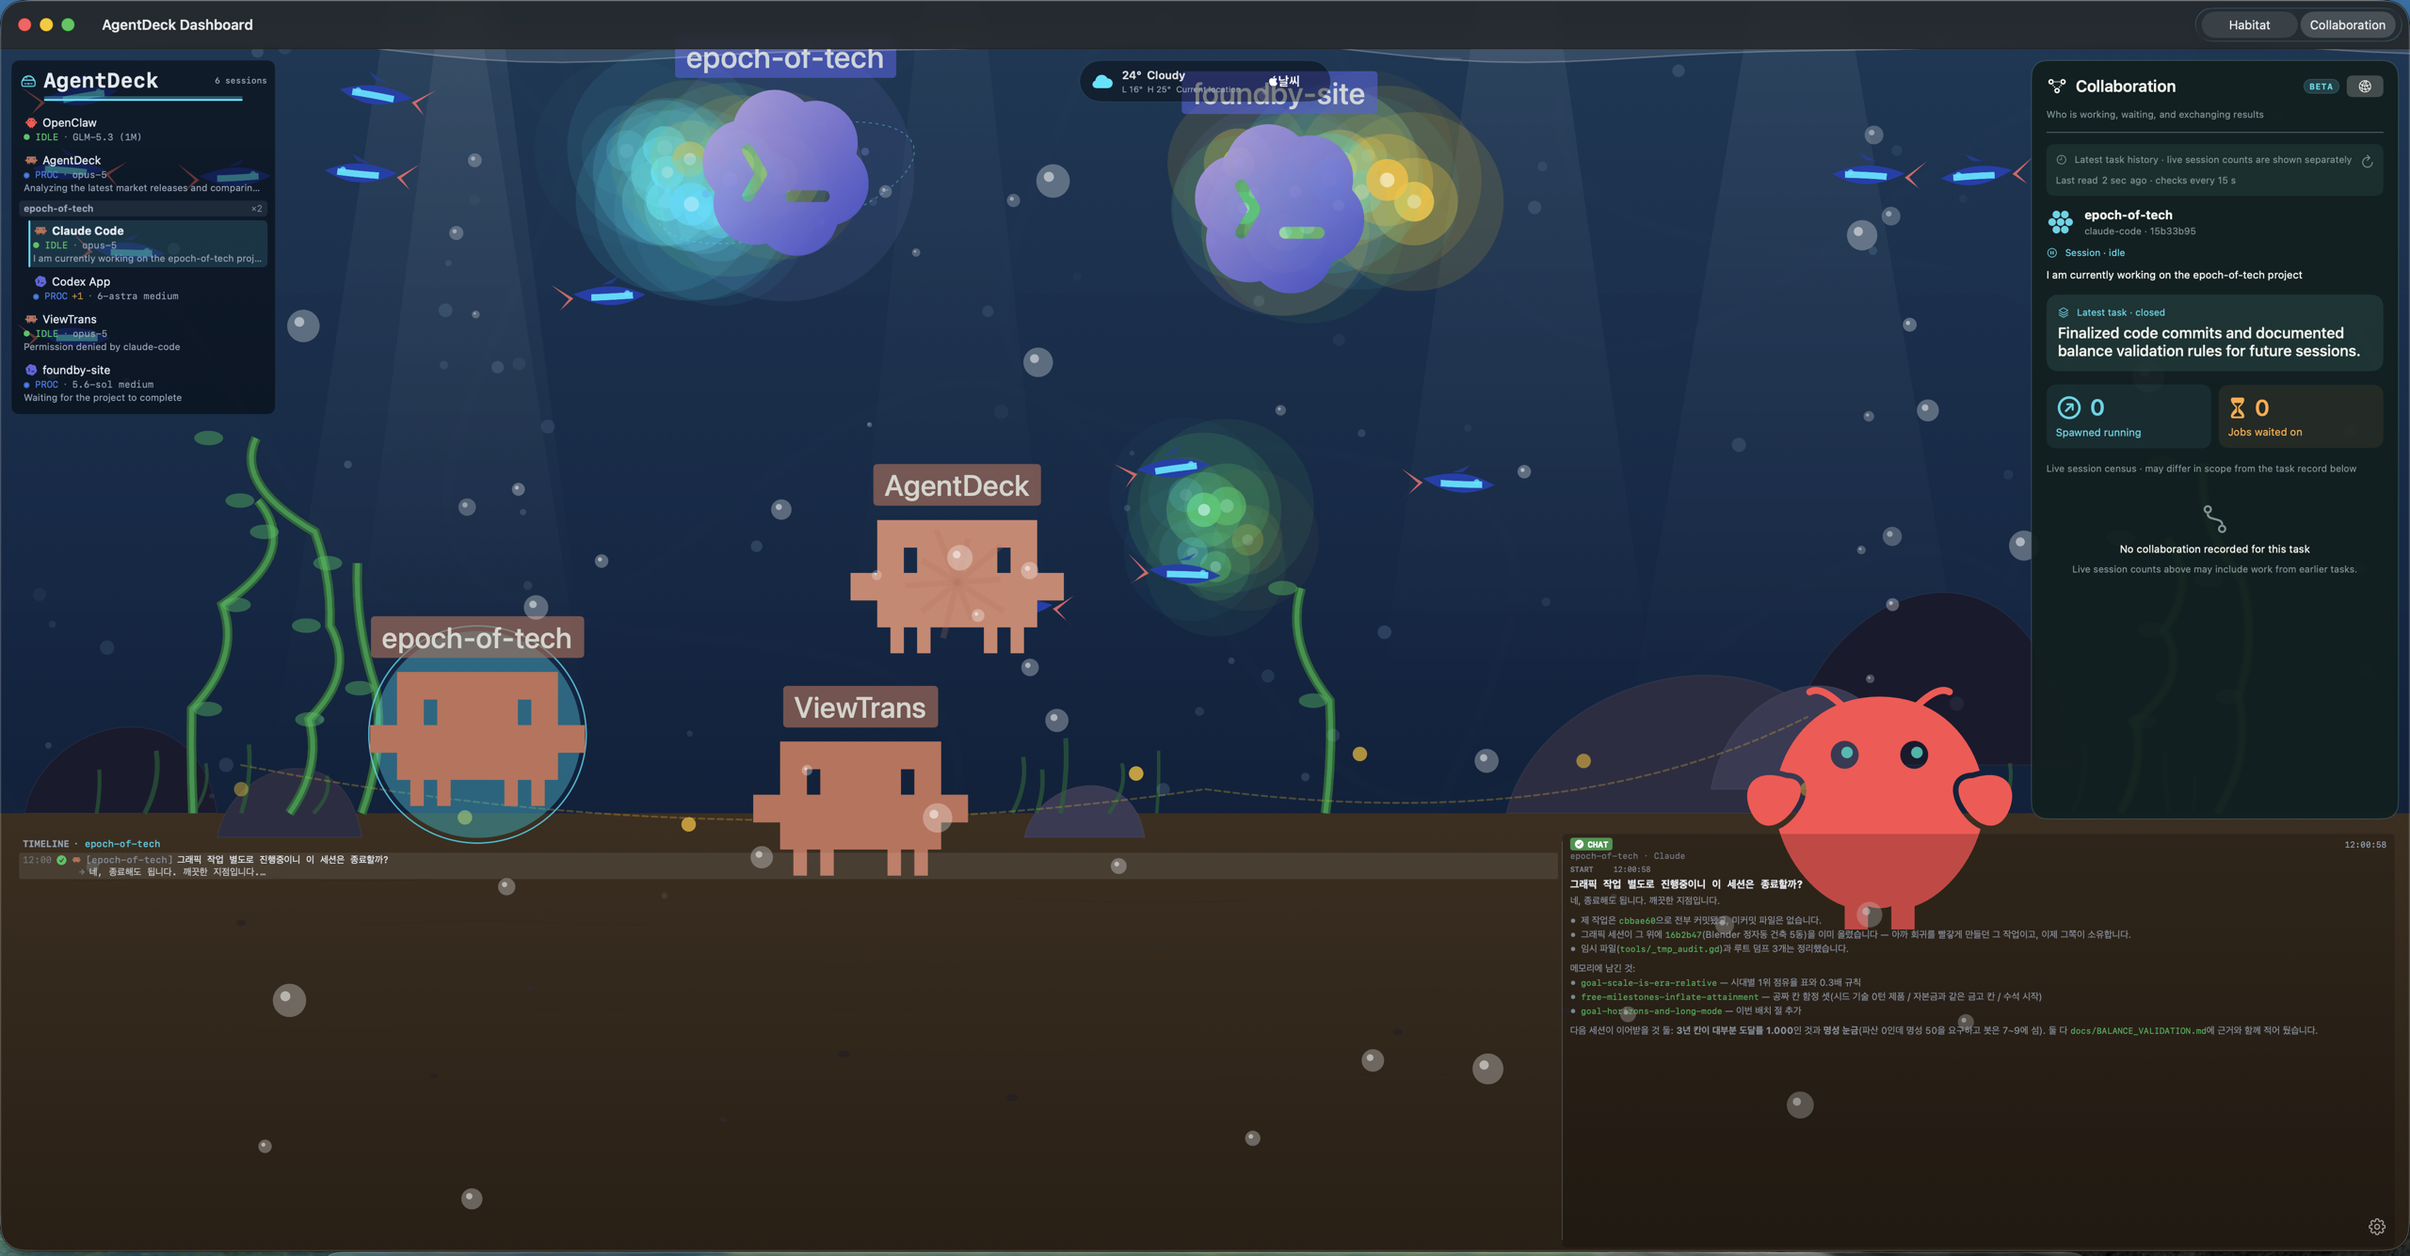
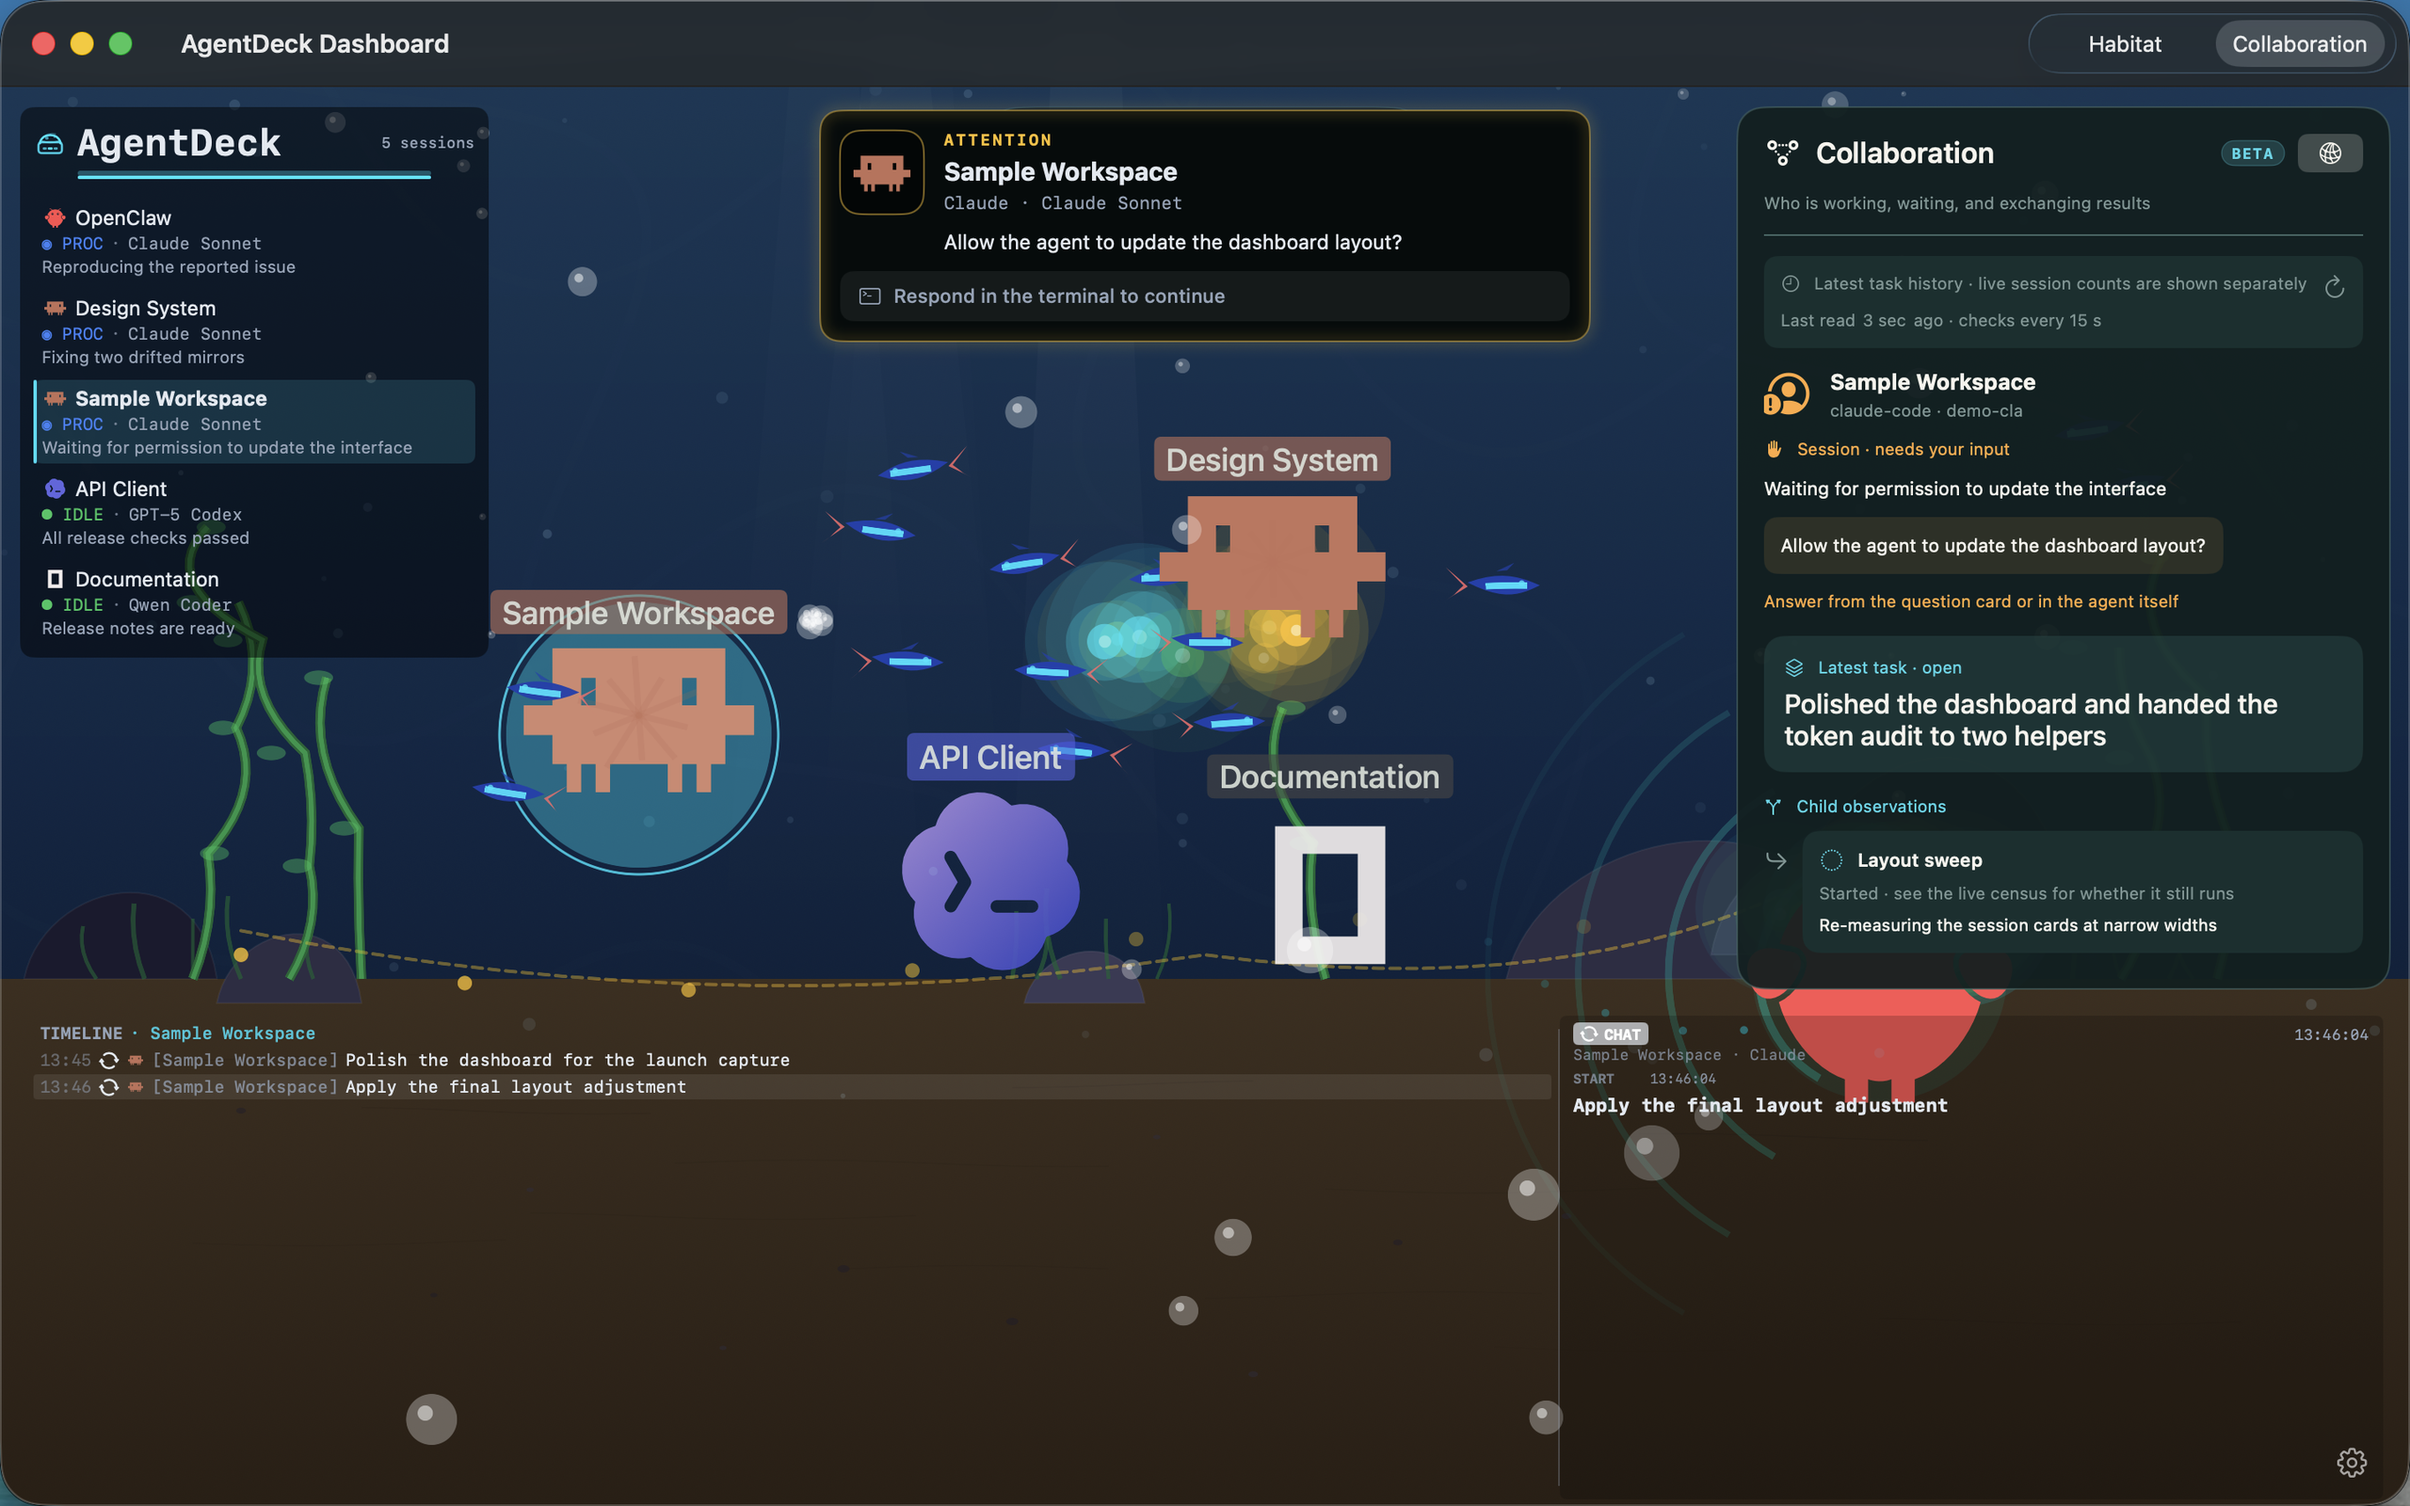
feat(capture): the README's screenshots come from the demo feed, not from this desk
The two flagship images on the project site and in the Apple docs were real
captures of a developer machine: real project names and task text in the
operator's own language, on English-language pages, beside App Store assets
that have been synthetic and privacy-reviewed all along. The videos were
already all-English; the screenshots next to them were not.

`scripts/capture-marketing-screenshots.sh` closes that gap without weakening
the store path. It runs the same deterministic orchestrator but passes a new
`--relay-usage`, which adds Claude's 5h/7d gauges. That split is the point:
those surfaces describe the daemon product, where a Node daemon relays the
quota and the gauges are real, while the sandboxed App Store build cannot
produce them alone — so the App Store scripts never pass the flag and this
script never writes into `apple/appstore-submission/`.

The Collaboration panel needed more than a flag. It does not read the
WebSocket feed at all: it fetches `/apme/tasks` over HTTP from
`daemonService.port`, which meant that while every other pixel came from the
mock, that one panel was querying the developer daemon on :9120 and rendering
this machine's real sessions — or, once the ids stopped matching, an empty
state. So the orchestrator now serves those two endpoints beside the socket
(shapes read off `CollaborationModel.swift`'s own decoders, and the session
filter is real because the client rejects a daemon that ignores it), and a
[…]

diff --git a/apple/AgentDeck/State/AgentStateHolder.swift b/apple/AgentDeck/State/AgentStateHolder.swift
@@ -126,6 +126,19 @@ final class AgentStateHolder: ObservableObject, @unchecked Sendable {
     /// card's integration gaps, for one) hides itself in this mode, so a
     /// launch recording shows the product instead of the operator's setup.
     var isCaptureFeedPinned: Bool { hasLaunchArgumentBridgePin }
+
+    /// The pinned feed's port, for the same reason the pin outranks
+    /// `setPreferredLocalBridge`: anything that reaches for the LOCAL daemon
+    /// while a capture feed is pinned reads this machine's real work and puts
+    /// it on camera. The Collaboration panel fetches its task history over
+    /// HTTP rather than from the feed, so without this it queried the
+    /// developer daemon on :9120 while every other pixel came from the mock.
+    var captureFeedPort: Int? {
+        guard hasLaunchArgumentBridgePin,
+              let raw = preferredLocalBridgeUrl,
+              let port = URLComponents(string: raw)?.port else { return nil }
+        return port
+    }
     #endif
 
     /// Bridges that failed to connect — skip them until browseResults refresh

diff --git a/apple/AgentDeck/UI/Monitor/MonitorHUD.swift b/apple/AgentDeck/UI/Monitor/MonitorHUD.swift
@@ -261,11 +261,21 @@ struct MonitorHUD: View {
         #endif
     }
 
+    /// A pinned capture feed answers for itself; the local daemon must not be
+    /// asked, or a capture shows this machine's real sessions in one panel and
+    /// synthetic ones everywhere else.
+    private var collaborationPort: Int {
+        #if DEBUG
+        if let pinned = stateHolder.captureFeedPort { return pinned }
+        #endif
+        return Int(daemonService.port)
+    }
+
     @ViewBuilder
     private func dashboardRightRail(maxHeight: CGFloat) -> some View {
         #if os(macOS)
         if collaborationEnabled {
-            CollaborationPanel(maxHeight: maxHeight, port: Int(daemonService.port))
+            CollaborationPanel(maxHeight: maxHeight, port: collaborationPort)
         } else {
             TopologyRail(maxHeight: maxHeight)
         }

diff --git a/apple/appstore-submission/RECORDING_RUNBOOK.md b/apple/appstore-submission/RECORDING_RUNBOOK.md
@@ -57,6 +57,31 @@ gate because the Swift daemon reads `~/.codex` directly. A preview showing a
 populated Claude quota row would depict a capability the shipped app does not
 have without the separately-installed Node daemon.
 
+## Marketing captures are a different path on purpose
+
+`scripts/capture-marketing-screenshots.sh` writes `docs/media/` for the README
+and the project site. It runs the same deterministic feed but passes
+`--relay-usage`, which adds Claude's subscription gauges — legitimate there,
+because those surfaces describe the daemon product where a Node daemon relays
+that quota, and forbidden here, because the sandboxed App Store build cannot
+produce them alone (`UsageAPIClient.directOAuthUsageSupported == false`). The
+App Store scripts never pass the flag and the marketing script never writes
+into `apple/appstore-submission/`; keep it that way.
+
+It exists because the screenshots it replaced were real captures of a
+developer's desk — real project names, real task text in the operator's own
+language — in an English-language README. The Collaboration panel is the one
+surface that does not read the feed: it fetches its task history over HTTP, so
+the orchestrator answers `/apme/tasks` on the same port, and a pinned capture
+feed now also supplies the port the panel asks (`AgentStateHolder.captureFeedPort`).
+Without that the panel queried the developer daemon on :9120 and put this
+machine's real sessions into an otherwise synthetic frame.
+
+Two things it does not cover yet: the APME boards (`apme-activity.png`,
+`apme-work.png`) read a much wider API surface than the two endpoints stubbed
+here, and the menu bar popup's activity summary reads the same one, so both are
+still real captures of a real desk.
+
 ## What a capture must not inherit
 
 A capture takes whatever the machine is in the mood for unless the harness pins
